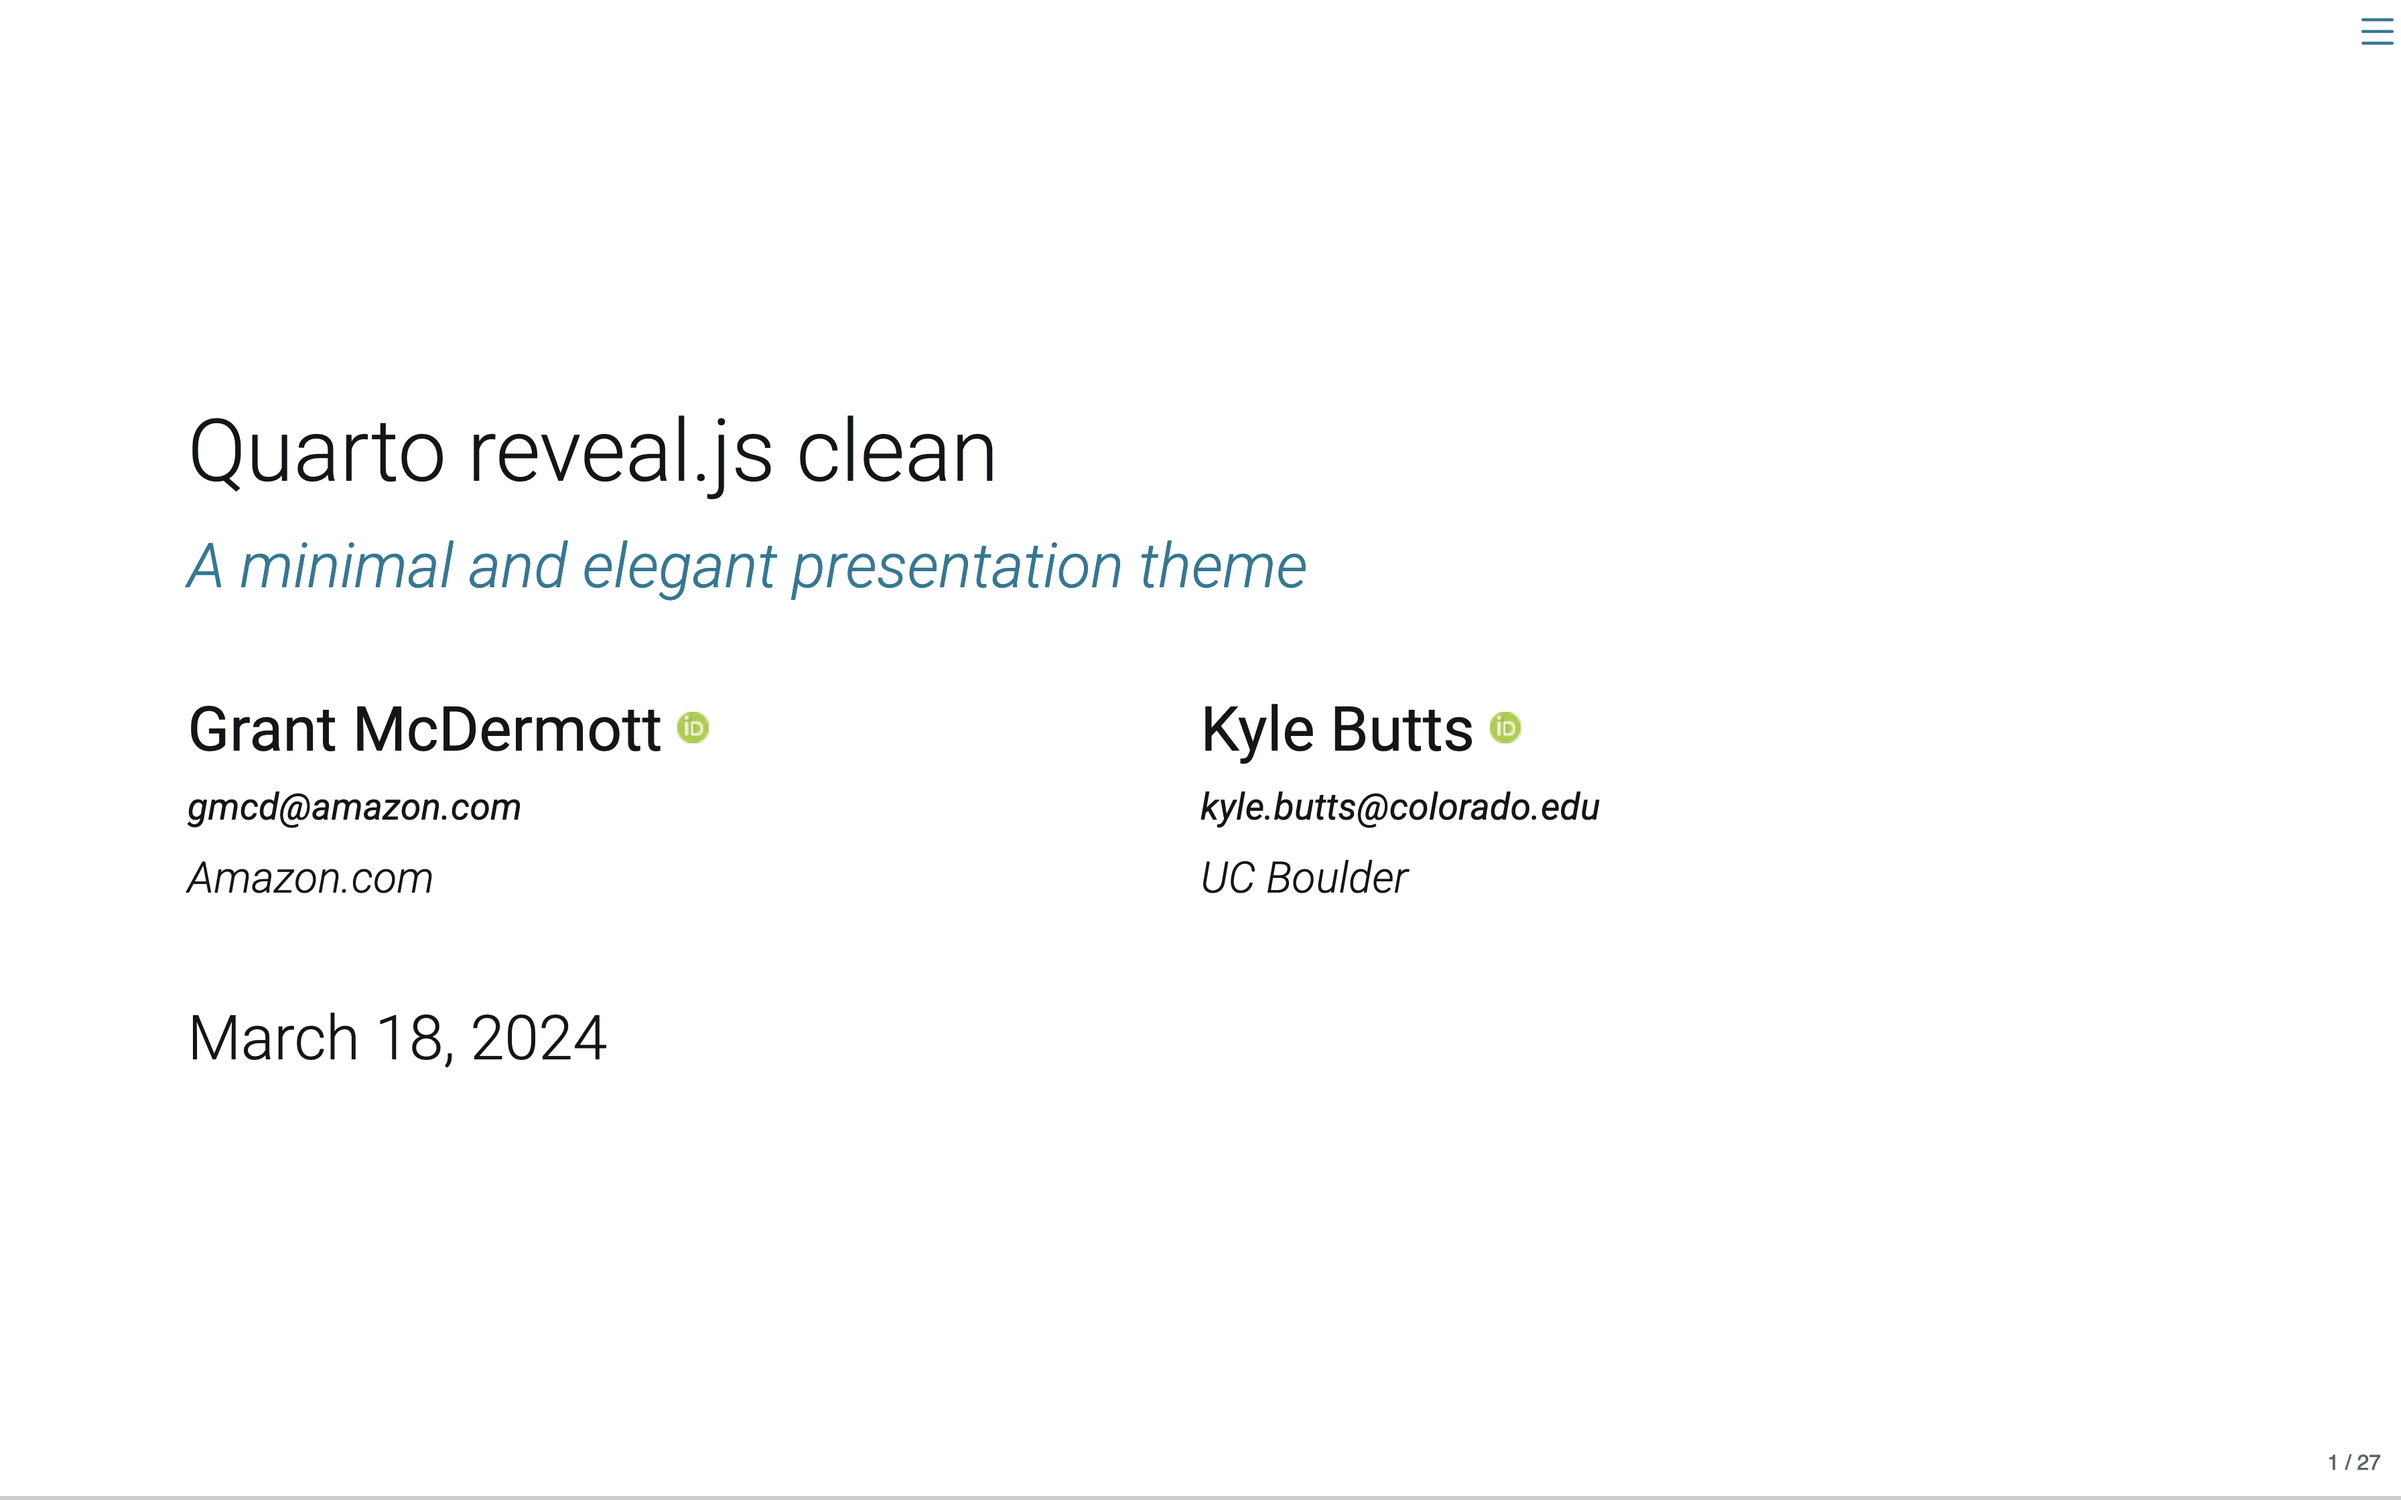
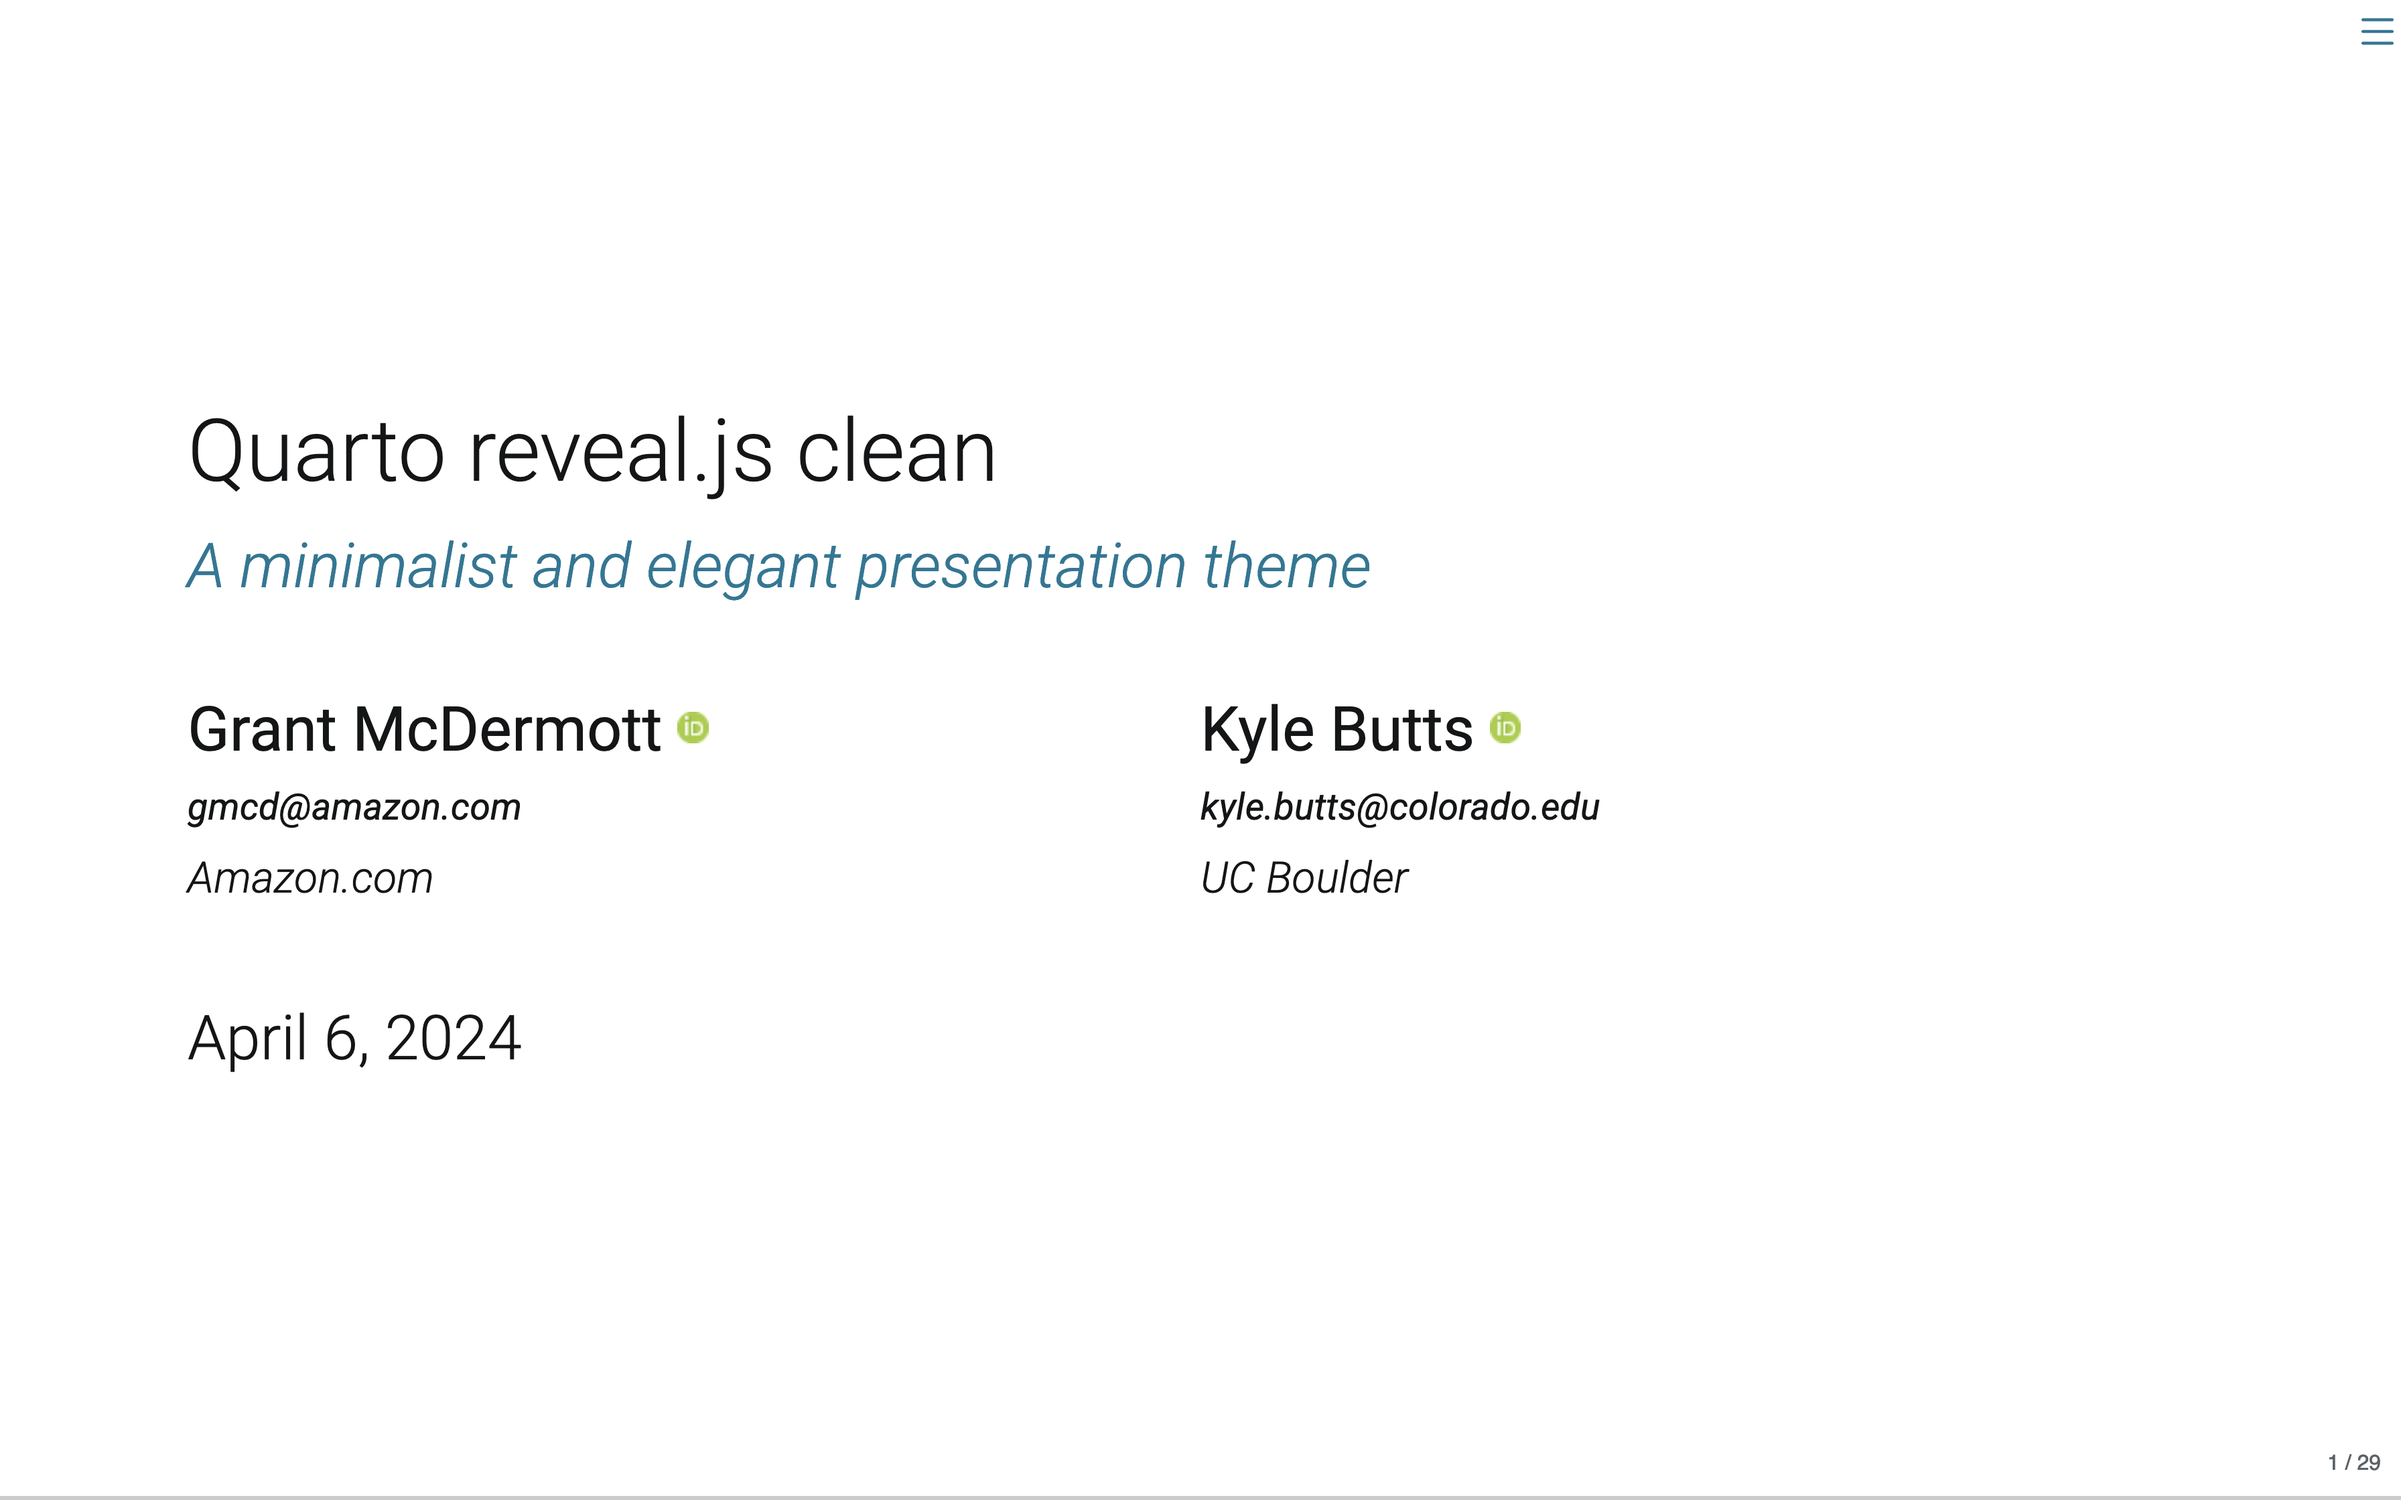
typo and sync live demo still

Changed region(s): [[0.1875, 0.3438, 0.5625, 0.4062], [0.0625, 0.6562, 0.25, 0.7188]]

diff --git a/README.md b/README.md
@@ -1,6 +1,6 @@
 # Quarto clean theme
 
-A minimal and elegant presentation theme for Quarto Reveal.js, inspired by Kyle's
+A minimalist and elegant presentation theme for Quarto Reveal.js, inspired by Kyle's
 [LaTex template](https://raw.githack.com/kylebutts/templates/master/latex-slides/slides.pdf).
 
 Click the screenshot below to be taken to a
